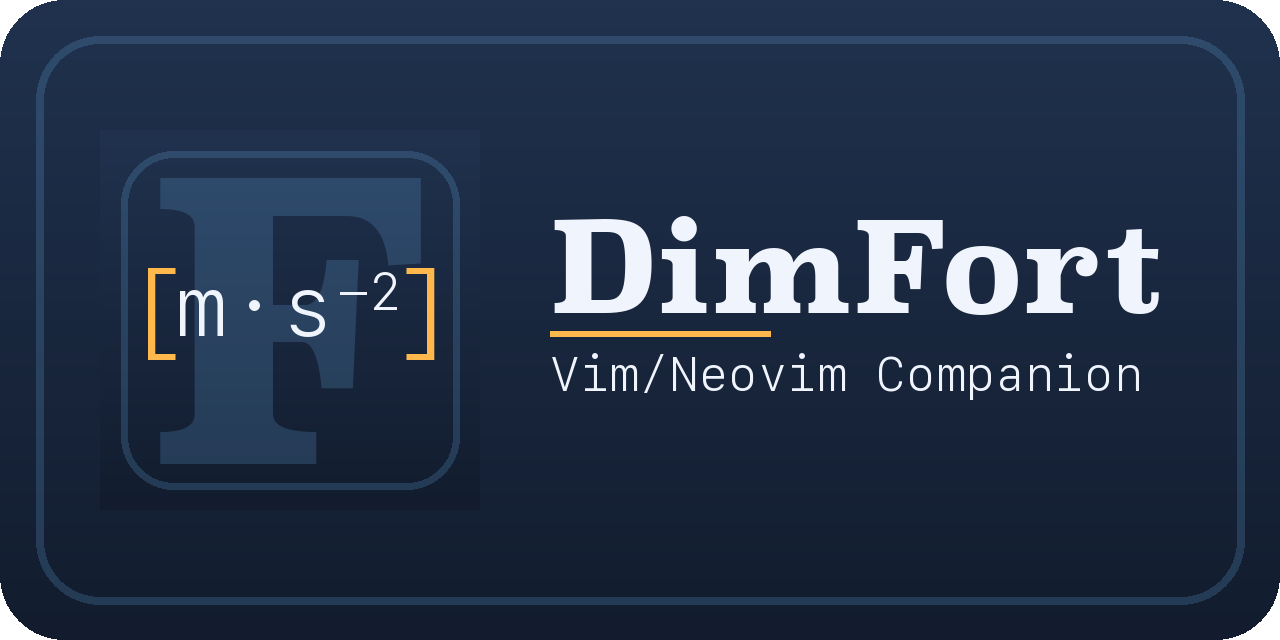
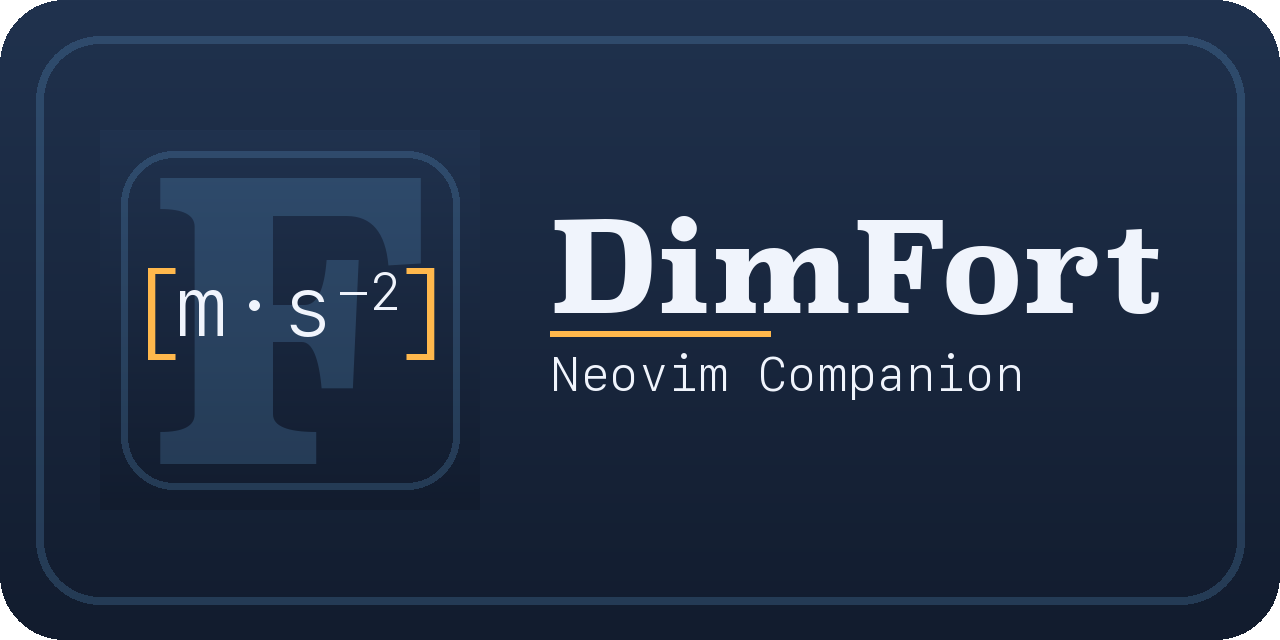
drop Vim ambiguity: scope companion to Neovim only
Plugin uses Neovim's built-in vim.lsp.* Lua APIs; classic Vim doesn't share those, so calling this a Vim/Neovim companion was misleading. README now says Neovim ≥ 0.11 outright and points classic-Vim users at vim-lsp/coc.nvim for plain LSP connectivity.

Social-preview banner subtitle changed from "Vim/Neovim Companion" to "Neovim Companion". make_icon.py docstring updated. icon.png / icon_alt.png are byte-identical (no caption).

Repo name DimFort-VimCompanion stays for now to keep already-pushed URLs working; will be renamed (e.g. DimFort-NeovimCompanion) at the maintainer's convenience.

Changed region(s): [[0.4062, 0.5625, 0.9062, 0.625]]

diff --git a/scripts/make_icon.py b/scripts/make_icon.py
@@ -1,4 +1,4 @@
-"""Generate the DimFort Vim/Neovim-companion branding assets.
+"""Generate the DimFort Neovim-companion branding assets.
 
 Run from the companion repo root:
     python scripts/make_icon.py
@@ -7,7 +7,7 @@ Produces, all into this repo:
     icon.png           — 256x256 square icon, rounded corners ([m·s⁻²])
     icon_alt.png       — alt icon, kg / m·s fraction motif
     social_preview.png — 1280x640 GitHub social-preview banner with
-                         the DimFort wordmark + "Vim/Neovim Companion"
+                         the DimFort wordmark + "Neovim Companion"
 
 The other companions (VSCode, Emacs) and the upstream DimFort repo
 each have their own copy of this generator. The palette and glyph
@@ -349,7 +349,7 @@ def main() -> None:
     print(f"wrote {icon_alt_path} ({icon_alt_path.stat().st_size} bytes)")
 
     _round_corners(
-        build_social("Vim/Neovim Companion"), SOCIAL_CORNER_RADIUS,
+        build_social("Neovim Companion"), SOCIAL_CORNER_RADIUS,
     ).save(social_path, "PNG", optimize=True)
     print(f"wrote {social_path} ({social_path.stat().st_size} bytes)")
 

diff --git a/README.md b/README.md
@@ -1,8 +1,16 @@
-# DimFort — Vim/Neovim companion
+# DimFort — Neovim companion
 
 Neovim companion for [DimFort](https://github.com/ArrialVictor/DimFort) —
 the dimensional-homogeneity checker for Fortran. Thin LSP client +
 user commands; the heavy lifting is done by the `dimfort lsp` server.
+
+> **Neovim-only.** The plugin uses Neovim's built-in `vim.lsp.*` Lua
+> APIs, which classic Vim doesn't share. Classic Vim users can still
+> talk to `dimfort lsp` via a third-party LSP client like
+> [`vim-lsp`](https://github.com/prabirshrestha/vim-lsp) or
+> [`coc.nvim`](https://github.com/neoclide/coc.nvim) — the server is
+> editor-agnostic — but the per-feature toggle commands and inlay
+> rendering polish below are Neovim-only.
 
 ## Requirements
 
